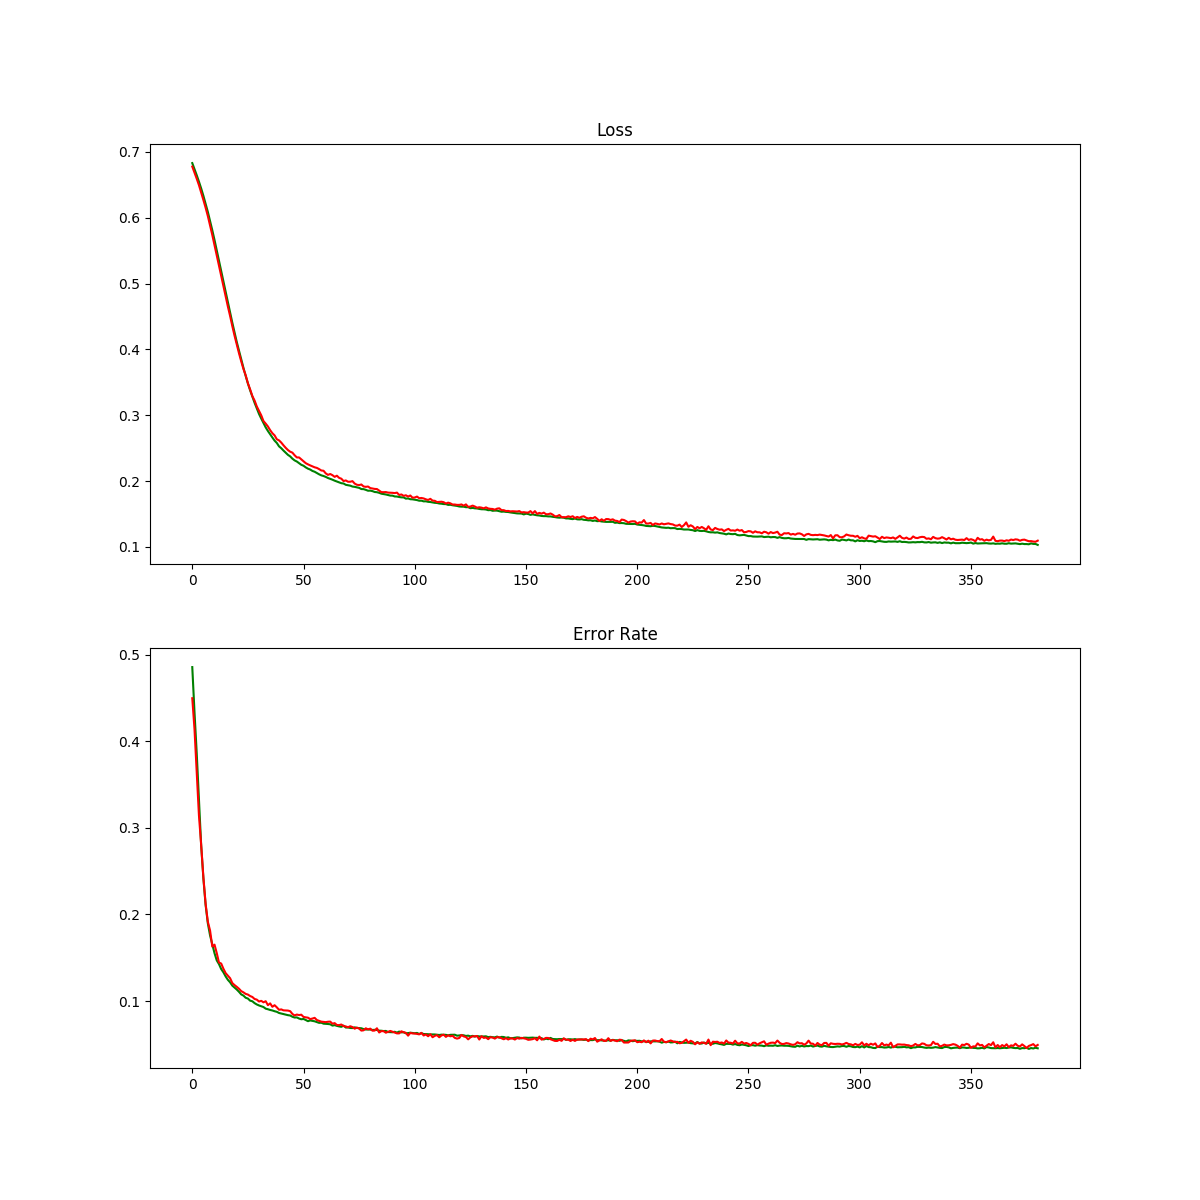
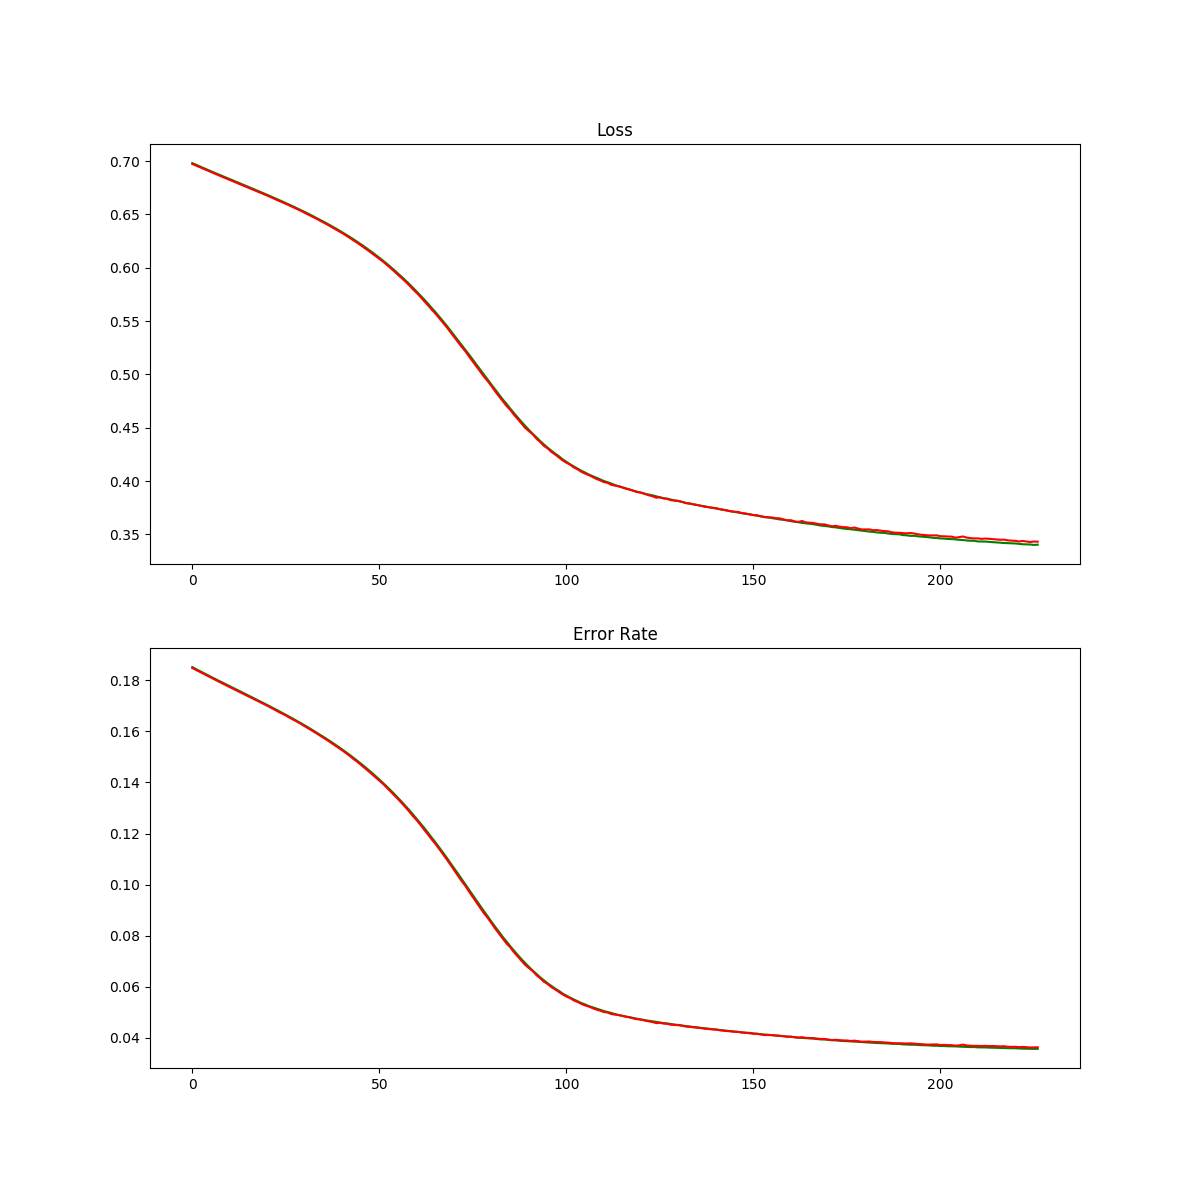
cross_entropy model

diff --git a/model/cross_entropy/model.py b/model/cross_entropy/model.py
@@ -1,0 +1,199 @@
+from __future__ import absolute_import
+
+import numpy as np
+import tensorflow as tf
+from backend.nn import layer
+from backend.model import BasicModel
+from backend.utils.media import sample_video
+from backend.utils import process_bar, console
+
+
+class Model(BasicModel):
+    def __init__(self, config=None):
+        super(Model, self).__init__(config)
+        # config input
+        self._audio_num_features = config['audio_num_features']
+        self._anime_num_features = config['anime_num_features']
+        self._audio_lstm_size = config['audio_lstm_size']
+        self._audio_lstm_dropout = config['audio_lstm_dropout']
+        self._phoneme_classes = config['phoneme_classes']
+        self._dense_size = config['dense_size']
+        self._train = bool(config['train'])
+        self._dropout = float(config['dropout'])
+        if not self._train:
+            self._dropout = 0
+            self._audio_lstm_dropout = 0
+
+        self._inputs = tf.placeholder(
+            tf.float32,
+            [None, None, self._audio_num_features]
+        )
+        self._outputs = tf.placeholder(
+            tf.float32,
+            [None, None, self._anime_num_features]
+        )
+        self._seq_len = tf.placeholder(
+            tf.int32,
+            [None]
+        )
+        self._placeholder_dict = {
+            'inputs': self._inputs,
+            'outputs': self._outputs,
+            'seq_len': self._seq_len
+        }
+        self._initializer = tf.truncated_normal_initializer(
+            mean=0., stddev=.075, seed=None, dtype=tf.float32
+        )
+        self._audio_input_shape = tf.shape(self._inputs)
+        self._batch_size = self._audio_input_shape[0]
+        self._time_step = self._audio_input_shape[1]
+        self._lstm_layers = []
+
+        # define the network
+        self._audio_lstm = layer.LSTM_layer(
+            batch_size=self._batch_size,
+            lstm_size=self._audio_lstm_size,
+            inputs=self._inputs,
+            seq_len=self._seq_len,
+            dropout=self._audio_lstm_dropout,
+            scope='audio_lstm'
+        )
+        self._lstm_layers.append(self._audio_lstm)
+        self._audio_lstm_output = tf.reshape(
+            self._audio_lstm['output'],
+            [-1, self._audio_lstm_size]
+        )
+        self._phn_layer = layer.dense_layer(
+            input_size=self._audio_lstm_size,
+            output_size=self._phoneme_classes,
+            inputs=self._audio_lstm_output,
+            initializer=self._initializer,
+            activation=tf.nn.relu,
+            scope='lstm2phn_dense'
+        )
+        self._output_layer = layer.dense_layer(
+            input_size=self._phoneme_classes,
+            output_size=self._anime_num_features,
+            inputs=self._phn_layer['output'],
+            initializer=self._initializer,
+            activation=None,
+            scope='output_dense'
+        )
+
+        self._anime_pred = tf.nn.sigmoid(self._output_layer['output'])
+
+        self._loss_fn = tf.reduce_mean(tf.nn.sigmoid_cross_entropy_with_logits(
+            logits=self._output_layer['output'],
+            labels=tf.reshape(self._outputs, [-1, self._anime_num_features])
+        ))
+        # finally, create the saver
+        self._saver = tf.train.Saver()
+
+    @property
+    def placeholder_dict(self):
+        return self._placeholder_dict
+
+    @property
+    def loss_fn(self):
+        return self._loss_fn
+
+    @property
+    def pred_tensor(self):
+        return self._anime_pred
+
+    def error_rate(self, pred, true):
+        total = 1
+        for x in pred.shape:
+            total *= x
+        error = ((pred.flatten() - true.flatten()) ** 2).sum()
+        return error / total
+
+    def sample_one_step(self, sess, audio_frame, anime_frame):
+        bs = audio_frame.shape[0]
+        assert(audio_frame.shape[1] == 1)
+        assert(audio_frame.shape[2] == self._audio_num_features)
+        feed_dict = {
+            self._inputs: audio_frame,
+            self._outputs: anime_frame,
+            self._seq_len: np.full((bs), 1, np.int32)
+        }
+        to_run = [self.pred_tensor]
+        for lstm in self._lstm_layers:
+            if lstm['next_state'] is not None:
+                feed_dict[lstm['init_state']] = lstm['next_state']
+            to_run.append(lstm['last_state'])
+        # feed
+        result = sess.run(
+                to_run,
+                feed_dict=feed_dict
+            )
+        output_anime = result[0]
+        for i, lstm in enumerate(self._lstm_layers):
+            lstm['next_state'] = result[i + 1]
+        anime_frame = []
+        for i in range(bs):
+            anime_frame.append([output_anime[i]])
+        anime_frame = np.asarray(anime_frame, dtype=np.float32)
+        return anime_frame
+
+    def sample_audio(self, sess, audio_input):
+        bs = audio_input.shape[0]
+        assert(audio_input.shape[1] >= 1)
+        assert(audio_input.shape[2] == self._audio_num_features)
+        anime_data = None
+        anime_frame = np.zeros((bs, 1, self._anime_num_features))
+        # init next_state
+        for lstm in self._lstm_layers:
+            lstm['next_state'] = None
+        for time_step in range(audio_input.shape[1]):
+            audio_frame = audio_input[:, time_step: time_step + 1, :]
+            anime_frame = self.sample_one_step(
+                sess, audio_frame, anime_frame)
+            if anime_data is None:
+                anime_data = anime_frame
+            else:
+                # append on time axis
+                anime_data = np.append(anime_data, anime_frame, axis=1)
+            anime_frame = anime_frame.reshape(bs, 1, self._anime_num_features)
+        return np.asarray(anime_data)
+
+    def sample(self, sess, data, batch_size, number=None, video=False):
+        if number is None or number > data.length:
+            number = data.length
+        if batch_size > number:
+            batch_size = number
+        batches = int(number / batch_size)
+        data.batch_size = batch_size
+        data.reset()
+        bar = process_bar.process_bar(0, batches)
+        console.log('log', 'Sample', bar + '\r')
+        for idx in range(batches):
+            li = idx * batch_size
+            d, s = data.next_batch()
+            audio = d['inputs']
+            anime_true = d['outputs']
+            path_prefix = d['path_prefix']
+
+            anime_pred = self.sample_audio(sess, audio)
+            assert(len(anime_pred) == len(anime_true))
+
+            # anime_pred = anime_pred ** 2
+            anime_true = anime_true ** 4
+
+            if video:
+                for i in range(batch_size):
+                    pred = anime_pred[i]
+                    true = anime_true[i]
+                    sample_video(
+                        {
+                            'path_prefix': path_prefix[i],
+                            'anime_pred': pred,
+                            'anime_true': true
+                        },
+                        'result/' + str(li + i) + '.mp4'
+                    )
+            bar = process_bar.process_bar(idx, batches)
+            console.log('log', 'Sample', bar + '\r')
+        console.log()
+
+        return

diff --git a/test.py b/test.py
@@ -1,5 +1,5 @@
 from backend.data import data_process, data_loader
-from model.silence import model
+from model.cross_entropy import model
 from backend.train import BPTT
 import sys
 import numpy as np
@@ -22,21 +22,23 @@ if __name__ == '__main__':
     # set model
     model = model.Model(config)
     # load data set
-    train_set = data_loader.DataSet(keys=['inputs', 'silence', 'seq_len'])
-    valid_set = data_loader.DataSet(keys=['inputs', 'silence', 'seq_len'])
+    train_set = data_loader.DataSet(keys=['inputs', 'outputs', 'seq_len', 'path_prefix'])
+    valid_set = data_loader.DataSet(keys=['inputs', 'outputs', 'seq_len', 'path_prefix'])
     train_set.add_pkl('data/train.pkl')
     valid_set.add_pkl('data/test.pkl')
     train_set.normalize('inputs')
     valid_set.normalize('inputs')
+    train_set.power('outputs', 0.25)
+    valid_set.power('outputs', 0.25)
 
     with tf.Session() as sess:
         if model._train:
             optimizer = tf.train.GradientDescentOptimizer(1e-2)
             trainer = BPTT.Trainer(
-                model, train_set, valid_set, label_key='silence',
+                model, train_set, valid_set, label_key='outputs',
                 feed_keys={
                     'inputs': 'inputs',
-                    'outputs': 'silence',
+                    'outputs': 'outputs',
                     'seq_len': 'seq_len'
                 }
             )
@@ -46,8 +48,12 @@ if __name__ == '__main__':
                 5000,
                 64,
                 64,
+                early_stopping_n=10,
                 load=False
             )
 
+        model.load(sess)
+
+        model.sample(sess, valid_set, 8, 8, True)
 
 

diff --git a/backend/train/BPTT.py b/backend/train/BPTT.py
@@ -84,14 +84,17 @@ class Trainer(BasicTrainer):
                     plt.close(fig)
 
                 if valid_loss < best_valid_loss:
+                    best_valid_loss = valid_loss
                     if self.checkpoint_epoch(epoch, epoches) or\
-                       epoch > 400:
-                        best_valid_loss = valid_loss
+                       epoch > 100:
                         self._model.save(self._sess)
                     early_stopping_cnt = 0
                 else:
                     early_stopping_cnt += 1
-                    # if early_stopping_n > 0 && early_s
+                    if early_stopping_n > 0:
+                        if early_stopping_cnt >= early_stopping_n:
+                            console.log('warning', 'Early Stopping')
+                            break
 
                 # end time
                 delta_time = time.time() - start_time
@@ -119,7 +122,7 @@ class Trainer(BasicTrainer):
             feed_dict, sub_set = self.next_feed_dict(data_set)
             if feed_dict is None:
                 break
-            to_run = [self._model.loss_fn, self._model._silence_pred]
+            to_run = [self._model.loss_fn, self._model.pred_tensor]
             if is_train:
                 to_run.append(self._optimizer)
             result = self._sess.run(

diff --git a/backend/data/data_loader.py b/backend/data/data_loader.py
@@ -15,6 +15,7 @@ class DataSet():
         self._batch_size = 1    # default batch_size is 1
         self._keys = keys
         self._normalized = {}
+        self._powered = []
         self.clear()
 
     def add_pkl(self, path):
@@ -86,7 +87,16 @@ class DataSet():
         for key in self._normalized:
             norm = self._normalized[key]
             ret[key] = (ret[key] - norm['mean']) / norm['stdv']
+        # power
+        for power in self._powered:
+            ret[power['key']] = ret[power['key']] ** power['value']
         return ret, need
+
+    def power(self, key, p):
+        self._powered.append({
+            'key': key,
+            'value': p
+        })
 
     # normalize the certain data
     def normalize(self, key):

diff --git a/backend/model.py b/backend/model.py
@@ -22,8 +22,8 @@ class BasicModel():
         self._saver.save(sess, path, global_step=step)
 
     def load(self, sess, name='best', step=0):
-        path = os.path.join(self._default_save_path, name)
-        assert(os.path.exists(path))
+        path = os.path.join(self._default_save_path, name + '-' + str(step))
+        assert(os.path.exists(path + '.index'))
         self._saver.restore(sess, path)
 
     @property

diff --git a/model/silence/model.py b/model/silence/model.py
@@ -94,6 +94,10 @@ class Model(BasicModel):
     def loss_fn(self):
         return self._loss_fn
 
+    @property
+    def pred_tensor(self):
+        return self._silence_pred
+
     def error_rate(self, pred, true):
         pred[pred < 0.5] = 0
         pred[pred >= 0.5] = 1
